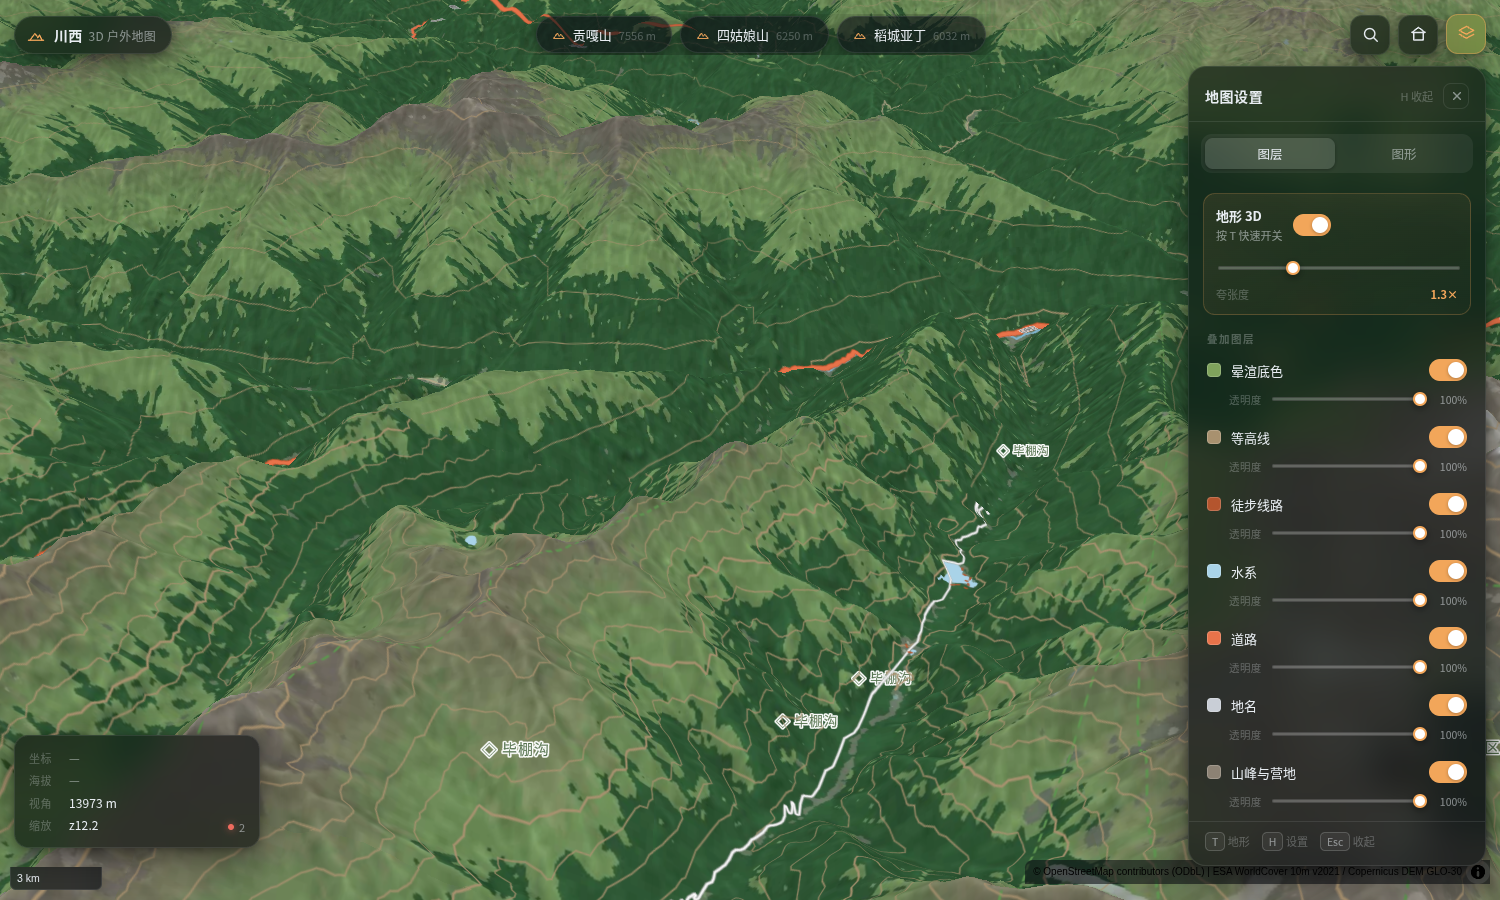
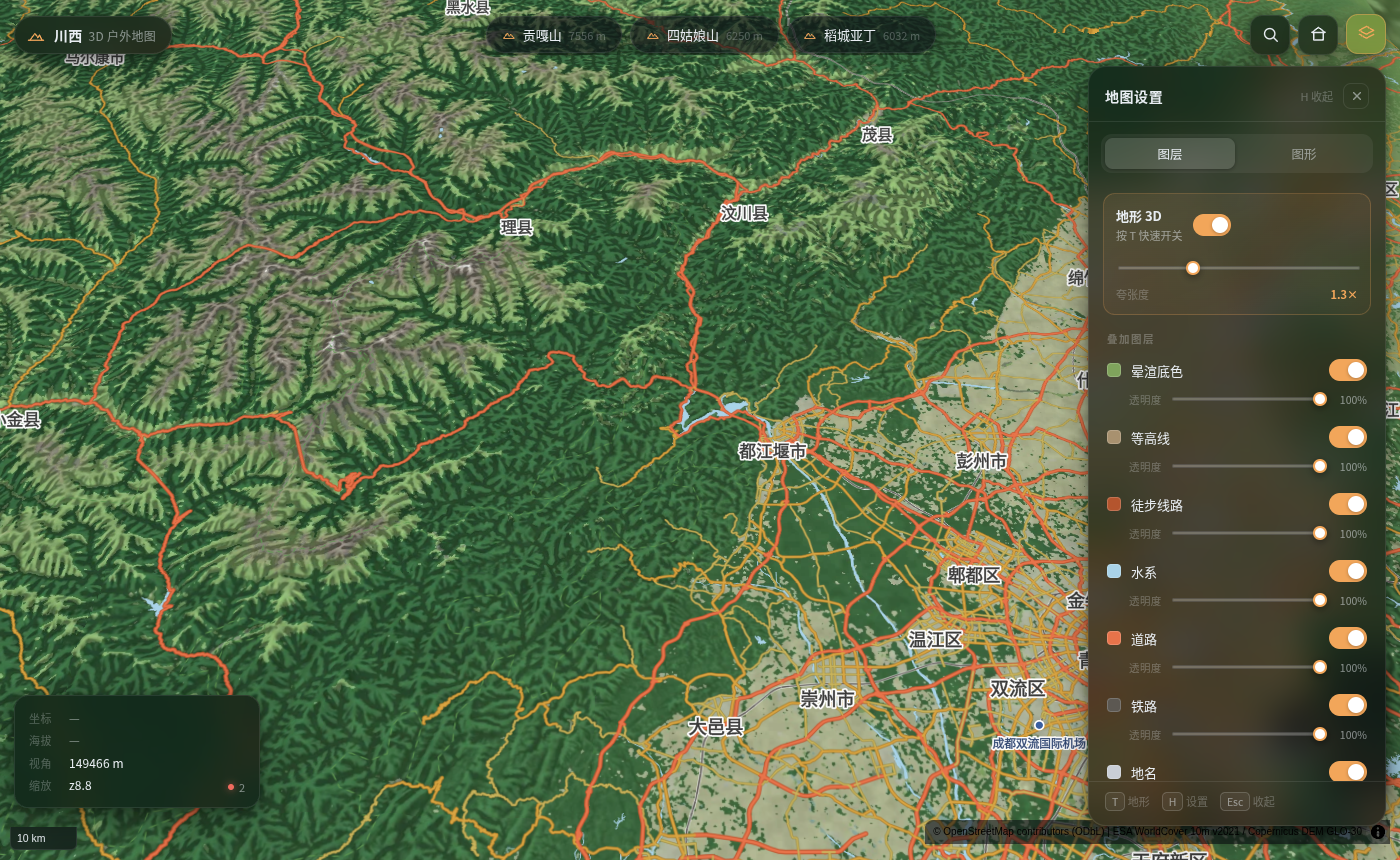
加入铁路网图层（描边 + 主线 + 枕木虚线），面板新增铁路分组

diff --git a/src/layers.ts b/src/layers.ts
@@ -15,6 +15,7 @@ export const LAYER_GROUPS: LayerGroup[] = [
   { key: 'trails', label: '徒步线路', match: ['trail-'], hasOpacity: true, color: '#b4552e' },
   { key: 'water', label: '水系', match: ['water'], hasOpacity: true, color: '#a9d3e8' },
   { key: 'roads', label: '道路', match: ['road'], hasOpacity: true, color: '#e8734a' },
+  { key: 'rail', label: '铁路', match: ['rail'], hasOpacity: true, color: '#5c5852' },
   { key: 'places', label: '地名', match: ['place-'], hasOpacity: true, color: '#c9ced6' },
   { key: 'peaks', label: '山峰与营地', match: ['peak', 'hut-poi'], hasOpacity: true, color: '#8c8274' },
   { key: 'scenic', label: '景区与保护区', match: ['scenic-'], hasOpacity: true, color: '#8fbf86' },

diff --git a/NOTES.md b/NOTES.md
@@ -433,3 +433,17 @@ v6 里有两个闸口会读这个方法，必须都遮：
 **注意**：色达喇荣五明佛学院在瓦片里是 `poi:college/college`，**地图上已经能显示**，
 但它仍然**搜不到**——搜索索引走的是 OSM 原始标签过滤，需要把 `landuse=religious`
 和 `amenity=university/college` 加进去才行（已评估：全局 +6,308 条 / +0.43 MB）。
+
+## 铁路网（2026-10-22）
+
+`osm.pmtiles` 的 `transportation` 层里 `class=rail` 已有数据（成都周边 150 个瓦片里 86 条），
+直接加三个图层，同样 0 额外字节：
+
+| 图层 | 作用 |
+|---|---|
+| `rail-casing` | 白色描边（3.4px），把铁路从底图上托出来 |
+| `rail` | 深灰主线（2.0px）|
+| `rail-ties` | 白色短虚线（`[1.2, 3.6]`），z11 起淡入，做出枕木的观感 |
+
+顺序放在 `boundary` 之后、`road-casing` 之前——公路压在铁路上，
+道口看起来才对。面板新增「铁路」分组，可单独开关。
